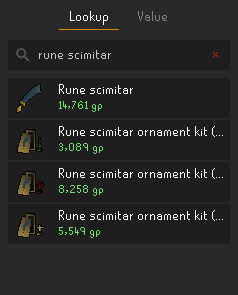
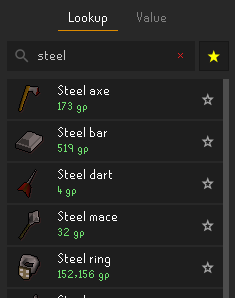
docs: update README with new item lookup and favorites screenshots

diff --git a/README.md b/README.md
@@ -6,17 +6,18 @@ A clean, responsive [RuneLite](https://runelite.net) plugin for checking Grand E
 
 ## Features
 
-| 🔍 Item Lookup | 💰 Net Worth & Valuation | ⚙ Configuration |
+| 🔍 Item Lookup | ⭐ Favorite Items | 💰 Net Worth & Valuation |
 | :---:|:---:|:---:|
-| <img width="230" alt="Lookup Tab" src="screenshots/lookup-tab.png" /> | <img width="230" alt="Value Tab" src="screenshots/value-tab.png" /> | <img width="230" alt="Plugin Configuration" src="screenshots/configuration.png" /> |
-| Search GE guide prices, high alch values, margins, & history | Track live inventory, bank, and combined account wealth | Toggle live Wiki prices, default graph range, & top items |
+| <img width="220" alt="Item Lookup" src="screenshots/lookup-tab.png" /> | <img width="220" alt="Favorite Items" src="screenshots/favorites-tab.png" /> | <img width="220" alt="Net Worth & Valuation" src="screenshots/value-tab.png" /> |
+| *Search items, view prices, margins & star items* | *Instant 1-click access to pinned favorites* | *Live inventory, bank value & top items* |
 
-### 1. Lookup Tab
-- **Favorites & Quick Access:** Star (★) any item in search results or detail view to pin it to your favorites. Access your favorites with one click via the top star button or by clearing the search bar.
-- **Search Any Item:** Instantly view its **GE guide price** and **High Alchemy value**.
-- When **Live Wiki Prices** are enabled:
-  - View instant buy and sell prices.
-  - Calculate flip margins after GE tax.
+### 1. Lookup & Favorites Tab
+- **Quick Favorites:** Click the star (★) on any item in search results or detail view to pin it to your favorites.
+- **Instant Access:** One-click access to your favorites via the top `★` button or whenever the search bar is empty.
+- **Search Any Item:** Autocomplete search across all tradeable items with guide prices and High Alchemy values.
+- **Live Wiki Prices & Margins:**
+  - View real-time instant buy and instant sell prices.
+  - Calculate tax-adjusted flip margins and ROI percentage.
   - Explore interactive price history graphs (`1D` / `2W` / `3M` / `1Y`).
 
 ### 2. Value Tab
@@ -37,6 +38,10 @@ Real-time price quotes and historical charts are powered by the official [OSRS W
 ---
 
 ## Configuration
+
+<p align="center">
+  <img width="240" alt="Plugin Configuration" src="screenshots/configuration.png" />
+</p>
 
 | Setting | Default | Description |
 |---|---|---|
